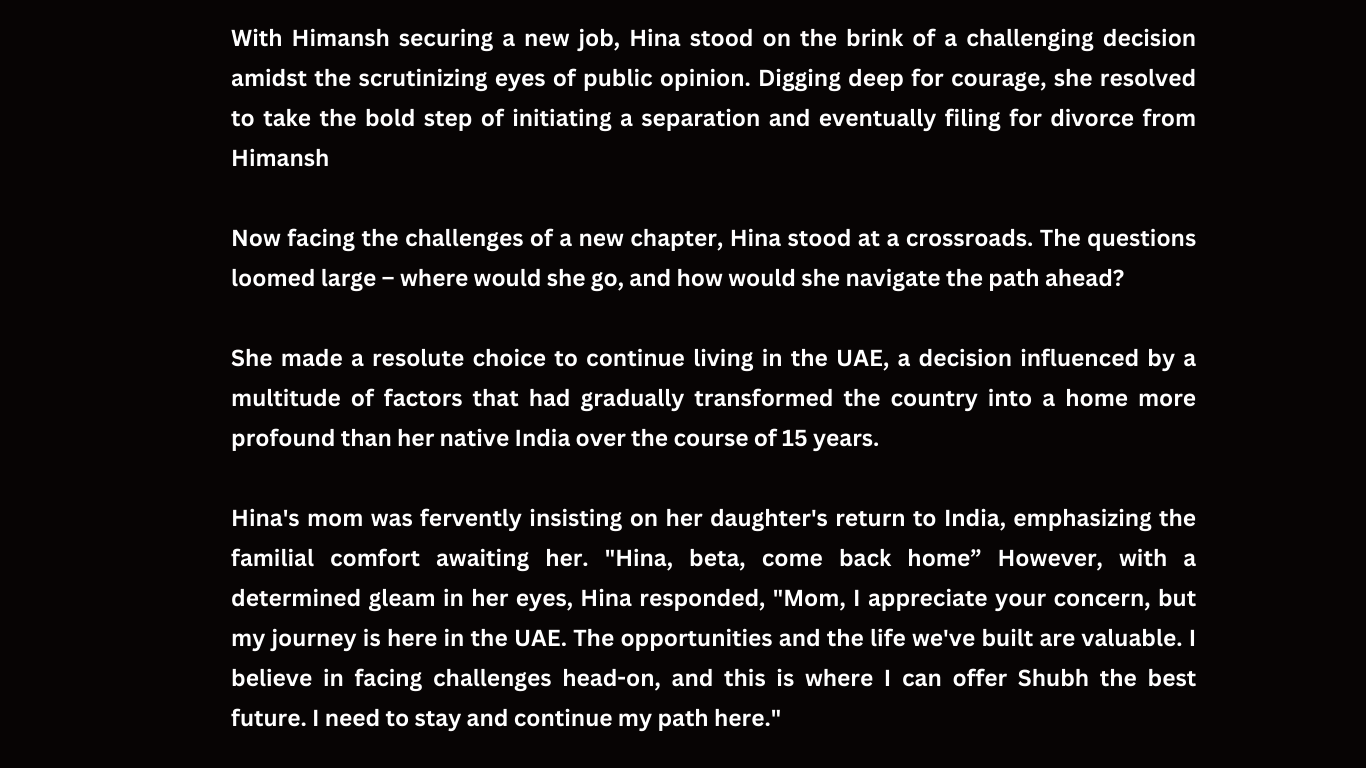
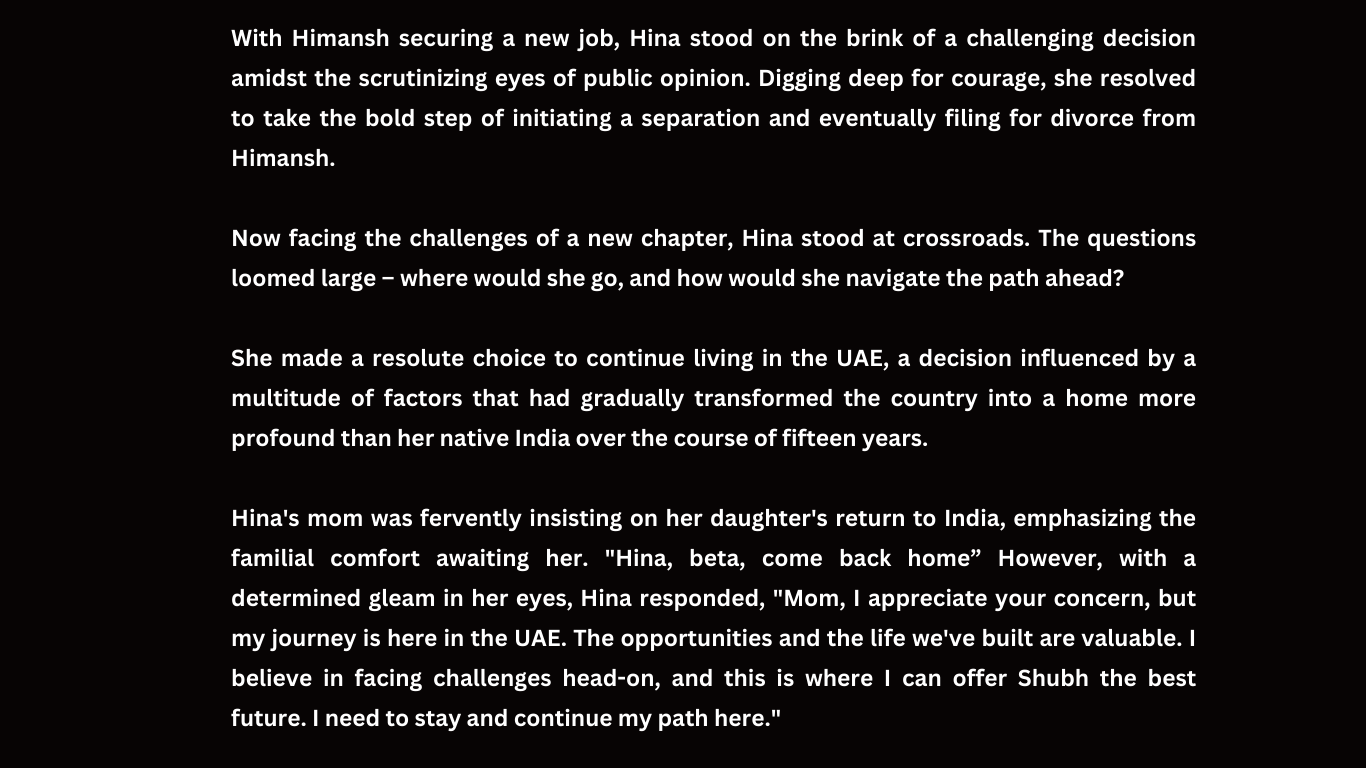
hi
hi

Changed region(s): [[0.2152, 0.2812, 0.7994, 0.3438], [0.5534, 0.5625, 0.6764, 0.5938]]

diff --git a/index.html b/index.html
@@ -61,8 +61,8 @@
       <section id="narrative" class="active">
 
         <!-- <img src="images/1.png" alt="Image 1"> -->
-        <img src="images/Haya (1).png" alt="Image 11">
-        <img src="images/Haya (2).png" alt="Image 2">
+        <img src="images/Haya (3).png" alt="Image 11">
+        <img src="images/Haya (4).png" alt="Image 2">
         <img src="images/3.png" alt="Image 3">
         <img src="images/4.png" alt="Image 4">
         <img src="images/5.png" alt="Image 5">
@@ -84,7 +84,7 @@
         </p>
 
         <p>
-            Informal social networks exist across registers of nationality, class and language where they act as care networks and conduits of information, social and financial assistance (Kathiravelu 2012: 110). Even for undocumented migrants or visa over stayers, they help them moving up in the social mobility, providing care through advice and counselling.(Saxena 8)
+            Informal social networks exist across registers of nationality, class and language where they act as care networks and conduits of information, social and financial assistance. Even for undocumented migrants or visa over stayers, they help them moving up in the social mobility, providing care through advice and counselling.(Saxena 8)
         </p>
 
         <p>
@@ -99,17 +99,17 @@
             The shifting societal dynamics in the UAE, especially for women, align with the broader trend observed in South Asian migrant communities. The rise in demand for migrant women has not only created opportunities but has also challenged traditional power relations, liberating women from societal constraints. This shares thematic parallels with the character Zouina from the film <i>Inch'Allah Dimanche.</i> Both narratives unfold against the backdrop of migration, cultural adaptation, and the quest for personal freedom in a new environment. The migration of both Zouina and Hina is initially motivated by love and the desire for family togetherness. Their journeys begin with the hope of strengthening familial bonds and creating a harmonious life with their husbands. Zouina in <i>Inch'Allah Dimanche</i> discovers a supportive community within her Algerian diaspora in France. These connections become her anchor as she grapples with an abusive marriage. The communal ties and shared experiences provide emotional support and practical assistance, allowing her to adapt to the unfamiliar French environment. Yet, despite the thematic similarities, the stories diverge significantly. Hina, being educated and hailing from a more developed region, introduces unique circumstances and challenges into her reality.
         </p>
 
-        <p>The interviewee for this narrative migrated to the United Arab Emirates in 2008 to reunite living with her ex-husband who was working in the UAE since 2000.</p>
+        <p>The interviewee for this narrative migrated to the United Arab Emirates in 2008 to reunite living with her then husband who was working in the UAE since 2000.</p>
       </section>
 
       <section id="footnotes">
         <h2>Footnotes</h2>
-        <div>Growing up as a child of immigrants in the UAE, a country I consider my own despite not having legal citizenship, I've always been surrounded by the effects of migration. Being a third-culture kid with Indian parents who were raised in different continents—my mother in Africa and my father in India—I've encountered a rich tapestry of cultural influences. Amidst the myriad migration stories I could share, I've chosen to spotlight one that is particularly recent and close to my heart.</div>
+        <div>Growing up as a child of immigrants in the UAE, a country I consider my own despite not having legal citizenship, I've always been surrounded by the effects of migration. Being a third-culture kid with Indian parents who were raised in different continents—my mother in Africa and my father in India—I've encountered a rich plethora of cultural influences. Amidst the myriad migration stories I could share, I've chosen to spotlight one that is particularly recent and close to my heart.</div>
 
         <div>The protagonist of this narrative is one of my mother's dearest friends—a woman I regard as one of the strongest and most inspiring individuals I know. I've had the unique privilege of witnessing her journey unfold right before my eyes, from the poignant decision to send her son to boarding school to navigating a challenging separation and subsequently building her own business.</div>
             
         <div> What captivates me most about her story is her unwavering resilience. Despite facing the complexities of living alone in the UAE, she approaches each day with a radiant smile, consistently expanding her business and honing her skills. Her determination to provide the best possible future for herself and her son is truly remarkable.</div>
-        <div> <h3>Challenges</h3> Since this subject is sensitive, I was quite anxious to conduct the interview. After a complete run through of the questions with Professor, I gained some confidence but was still scared of triggering emotions or memories. However, my interviewee was so strong and unaffected that she answered all my questions with the biggest smile. The only weak point was when she spoke about her family back in India and how she still misses her son who studies away. </div>
+        <div> <h3>Challenges</h3> Since this subject is sensitive, I was quite anxious to conduct the interview. After a complete run through of the questions with Professor, I gained some confidence but was still scared of triggering emotions or memories. However, my interviewee was so strong and unaffected that she answered all my questions with the biggest smile. The only weak point was when she spoke about her family back in India.</div>
       </section>
 
       <section id="references">
@@ -117,7 +117,8 @@
         <div>Sabban, Rima. UNITED ARAB EMIRATES: MIGRANT WOMEN in the <br>&nbsp;&nbsp; UNITED ARAB EMIRATES the Case of Female Domestic Workers Gender Promotion Programme International &nbsp;&nbsp;&nbsp;Labour Office Geneva.</div>
         <div>Saxena, S. “Young Migrant Women from South Asia in the UAE :<br>&nbsp;&nbsp; Negotiating Identities under the Kafala System.” Thesis.eur.nl, 14 Dec. 2012, thesis.eur.nl/pub/13238/. Accessed 10 &nbsp;&nbsp;&nbsp;Dec. 2023.</div>
         <div>Benguigui, Yamina.  Inch'Allah Dimanche.<br>&nbsp;&nbsp; [Place of publication not identified] : Prince Frederick, MD :Filmmovement ; Recorded Books, 2002.</div>
-      </section>
+        <div>Canva. “Canva.” Canva, 2023, www.canva.com/.</div>
+    </section>
 
 </body>
 </html>

diff --git a/styles.css b/styles.css
@@ -583,7 +583,7 @@ p {
   background-repeat: no-repeat; */
   color: white;
   padding: 20%; /* Adjust the padding as needed */
-  padding-top: 5%;
+  padding-top: 3%;
   position: relative;
   width: 100%;
   height: 100vh;
